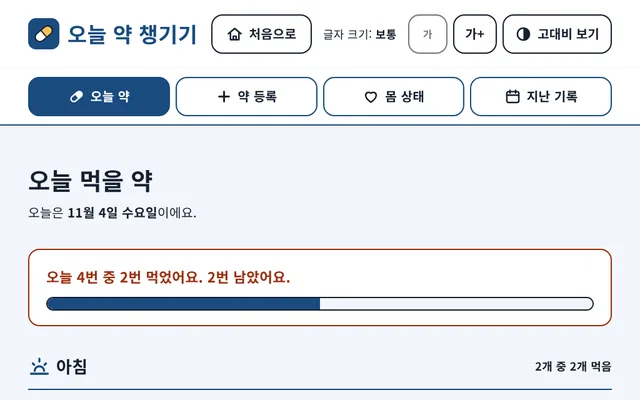
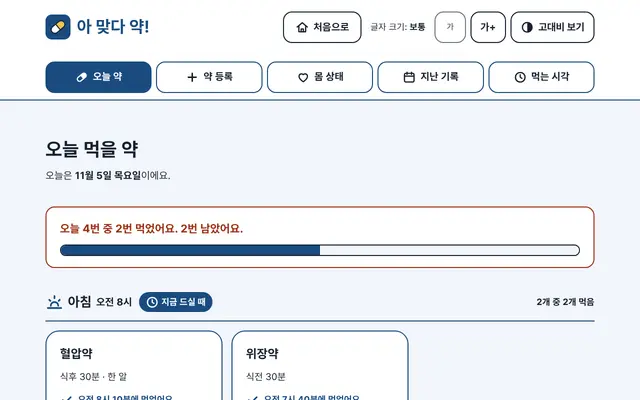
포트폴리오: 약 복용 사이트 카드 이름 '아 맞다 약!'으로 변경, 썸네일 갱신 (#25)
Claude-Session: https://claude.ai/code/session_01EmZgdfnTxsMPKaoBFfD3Qk

Changed region(s): [[0.0312, 0.51, 0.9688, 1.0], [0.0, 0.03, 1.0, 0.48], [0.8125, 0.9, 0.9688, 0.93]]

diff --git a/index.html b/index.html
@@ -239,16 +239,16 @@
 
           <li class="card-list__item">
             <article class="work" aria-labelledby="work5">
-              <img class="work__thumb" src="images/works/pill-check.webp" alt="오늘 약 챙기기 화면 미리보기" width="640" height="400" loading="lazy" decoding="async">
+              <img class="work__thumb" src="images/works/pill-check.webp" alt="아 맞다 약! 화면 미리보기" width="640" height="400" loading="lazy" decoding="async">
               <p class="work__meta"><span class="work__badge">05</span> 생활 도우미 · 2026</p>
-              <h3 class="work__title" id="work5">오늘 약 챙기기</h3>
+              <h3 class="work__title" id="work5">아 맞다 약!</h3>
               <p class="work__desc">아침·점심·저녁·자기 전에 먹을 약을 등록하고 큰 버튼으로 먹었는지 표시하는 복약 수첩입니다. 오늘 몸 상태와 최근 7일 기록을 함께 보여주고, 잘못 누른 기록은 바로 되돌릴 수 있게 만들었습니다.</p>
               <ul class="tag-list">
                 <li class="tag-list__item">어르신 친화 화면</li>
                 <li class="tag-list__item">입력 폼 접근성</li>
                 <li class="tag-list__item">반응형 표</li>
               </ul>
-              <a href="projects/pill-check/" class="btn btn--primary btn--block work__link"><svg class="ico" aria-hidden="true" focusable="false"><use href="#i-arrow"></use></svg> 사이트 보기<span class="sr-only"> - 오늘 약 챙기기</span></a>
+              <a href="projects/pill-check/" class="btn btn--primary btn--block work__link"><svg class="ico" aria-hidden="true" focusable="false"><use href="#i-arrow"></use></svg> 사이트 보기<span class="sr-only"> - 아 맞다 약!</span></a>
             </article>
           </li>
 
